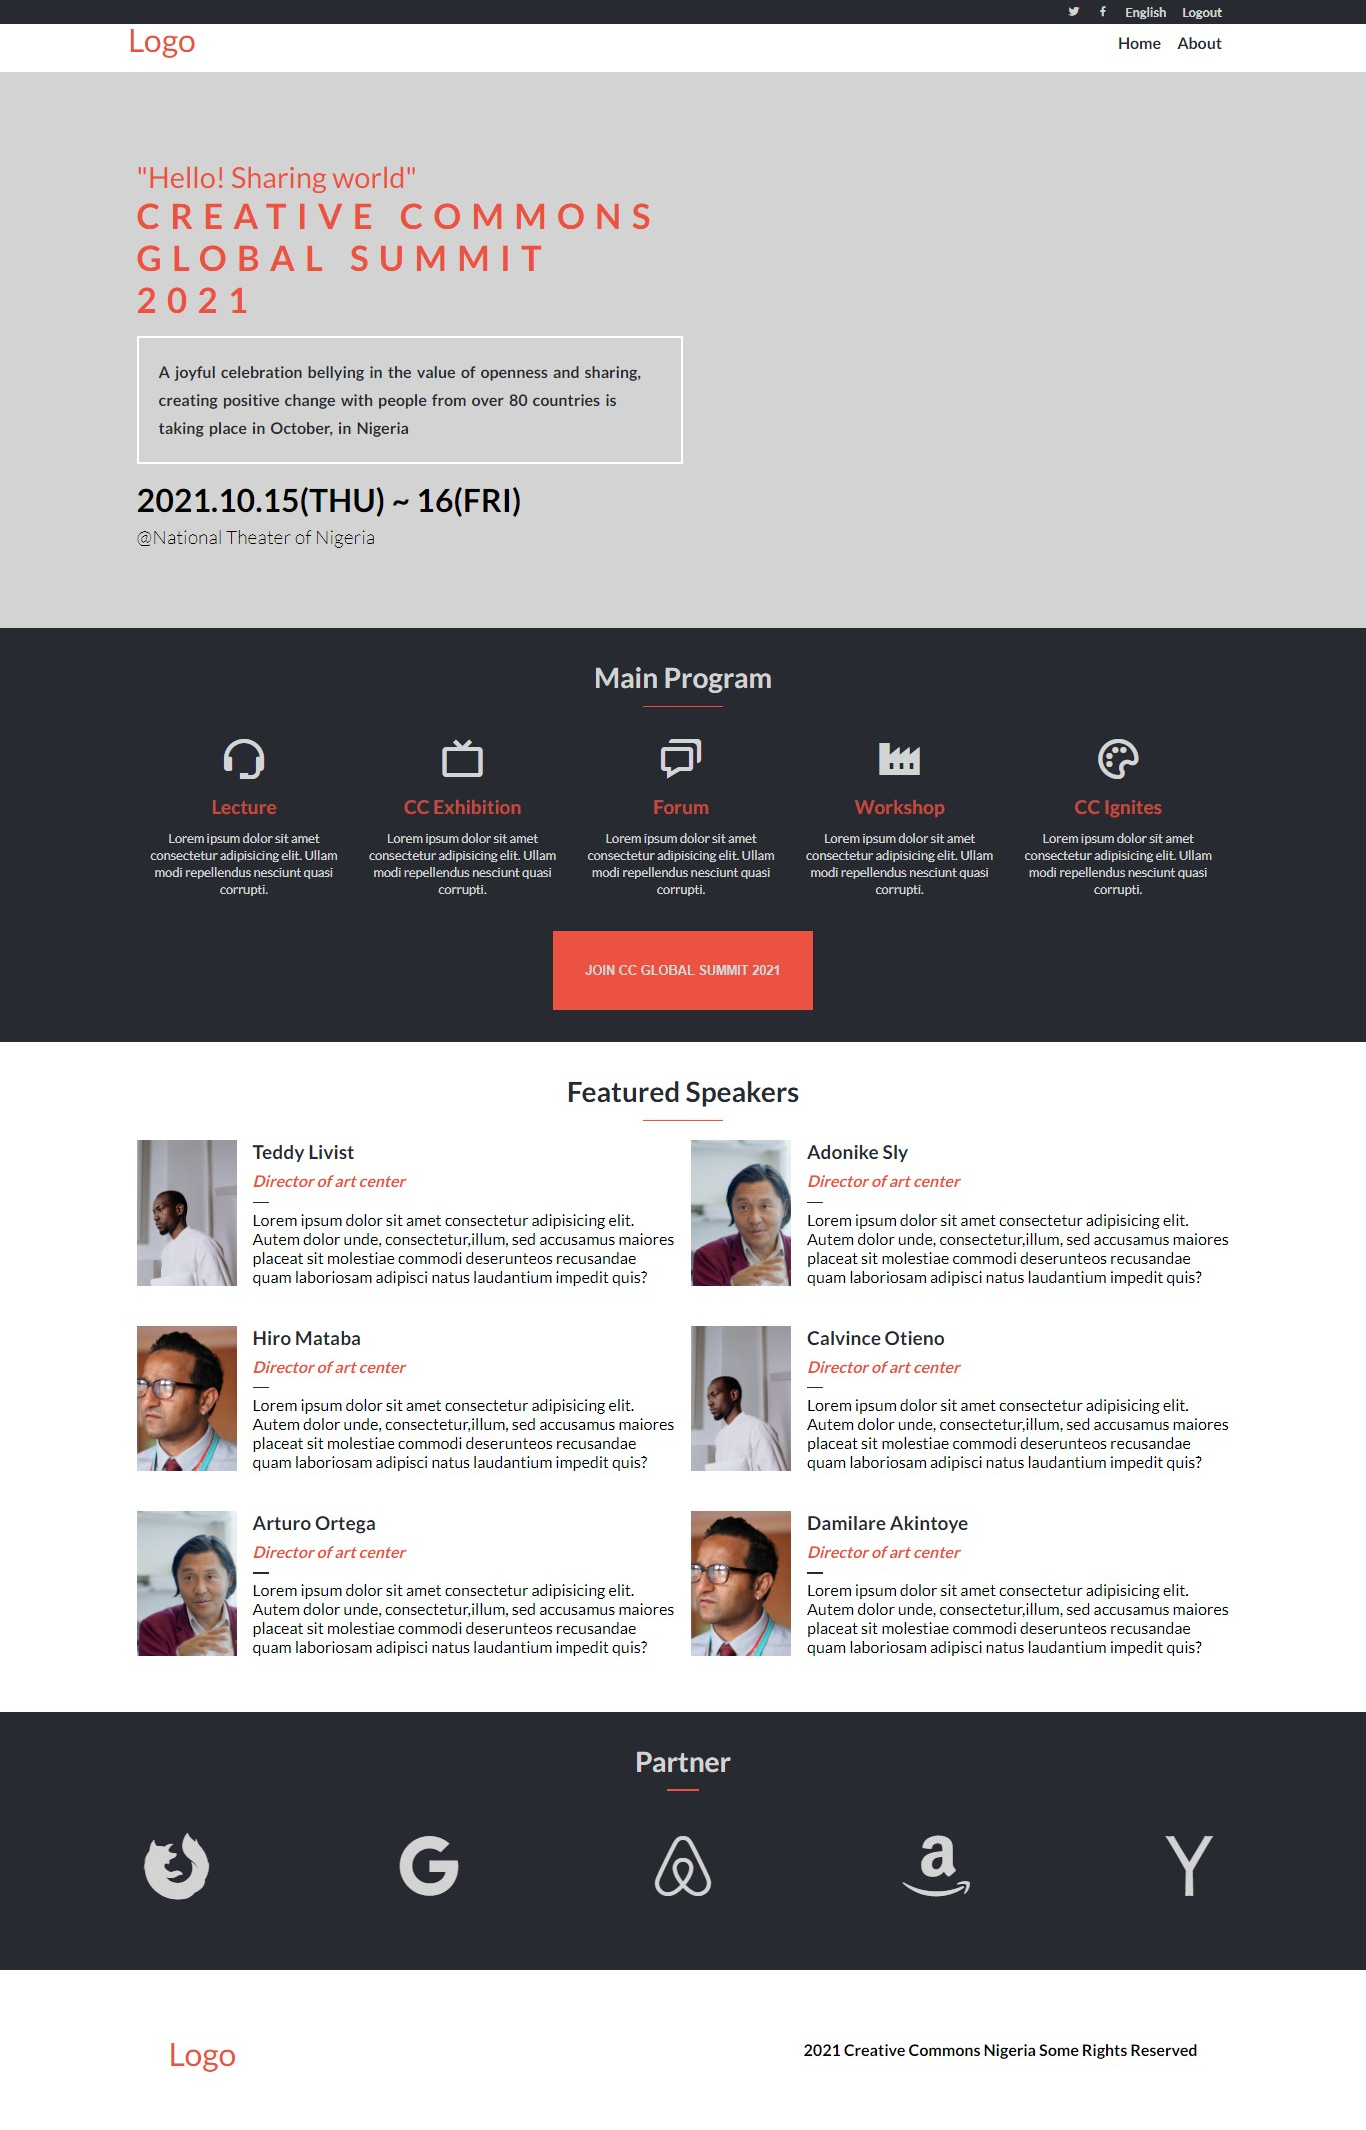
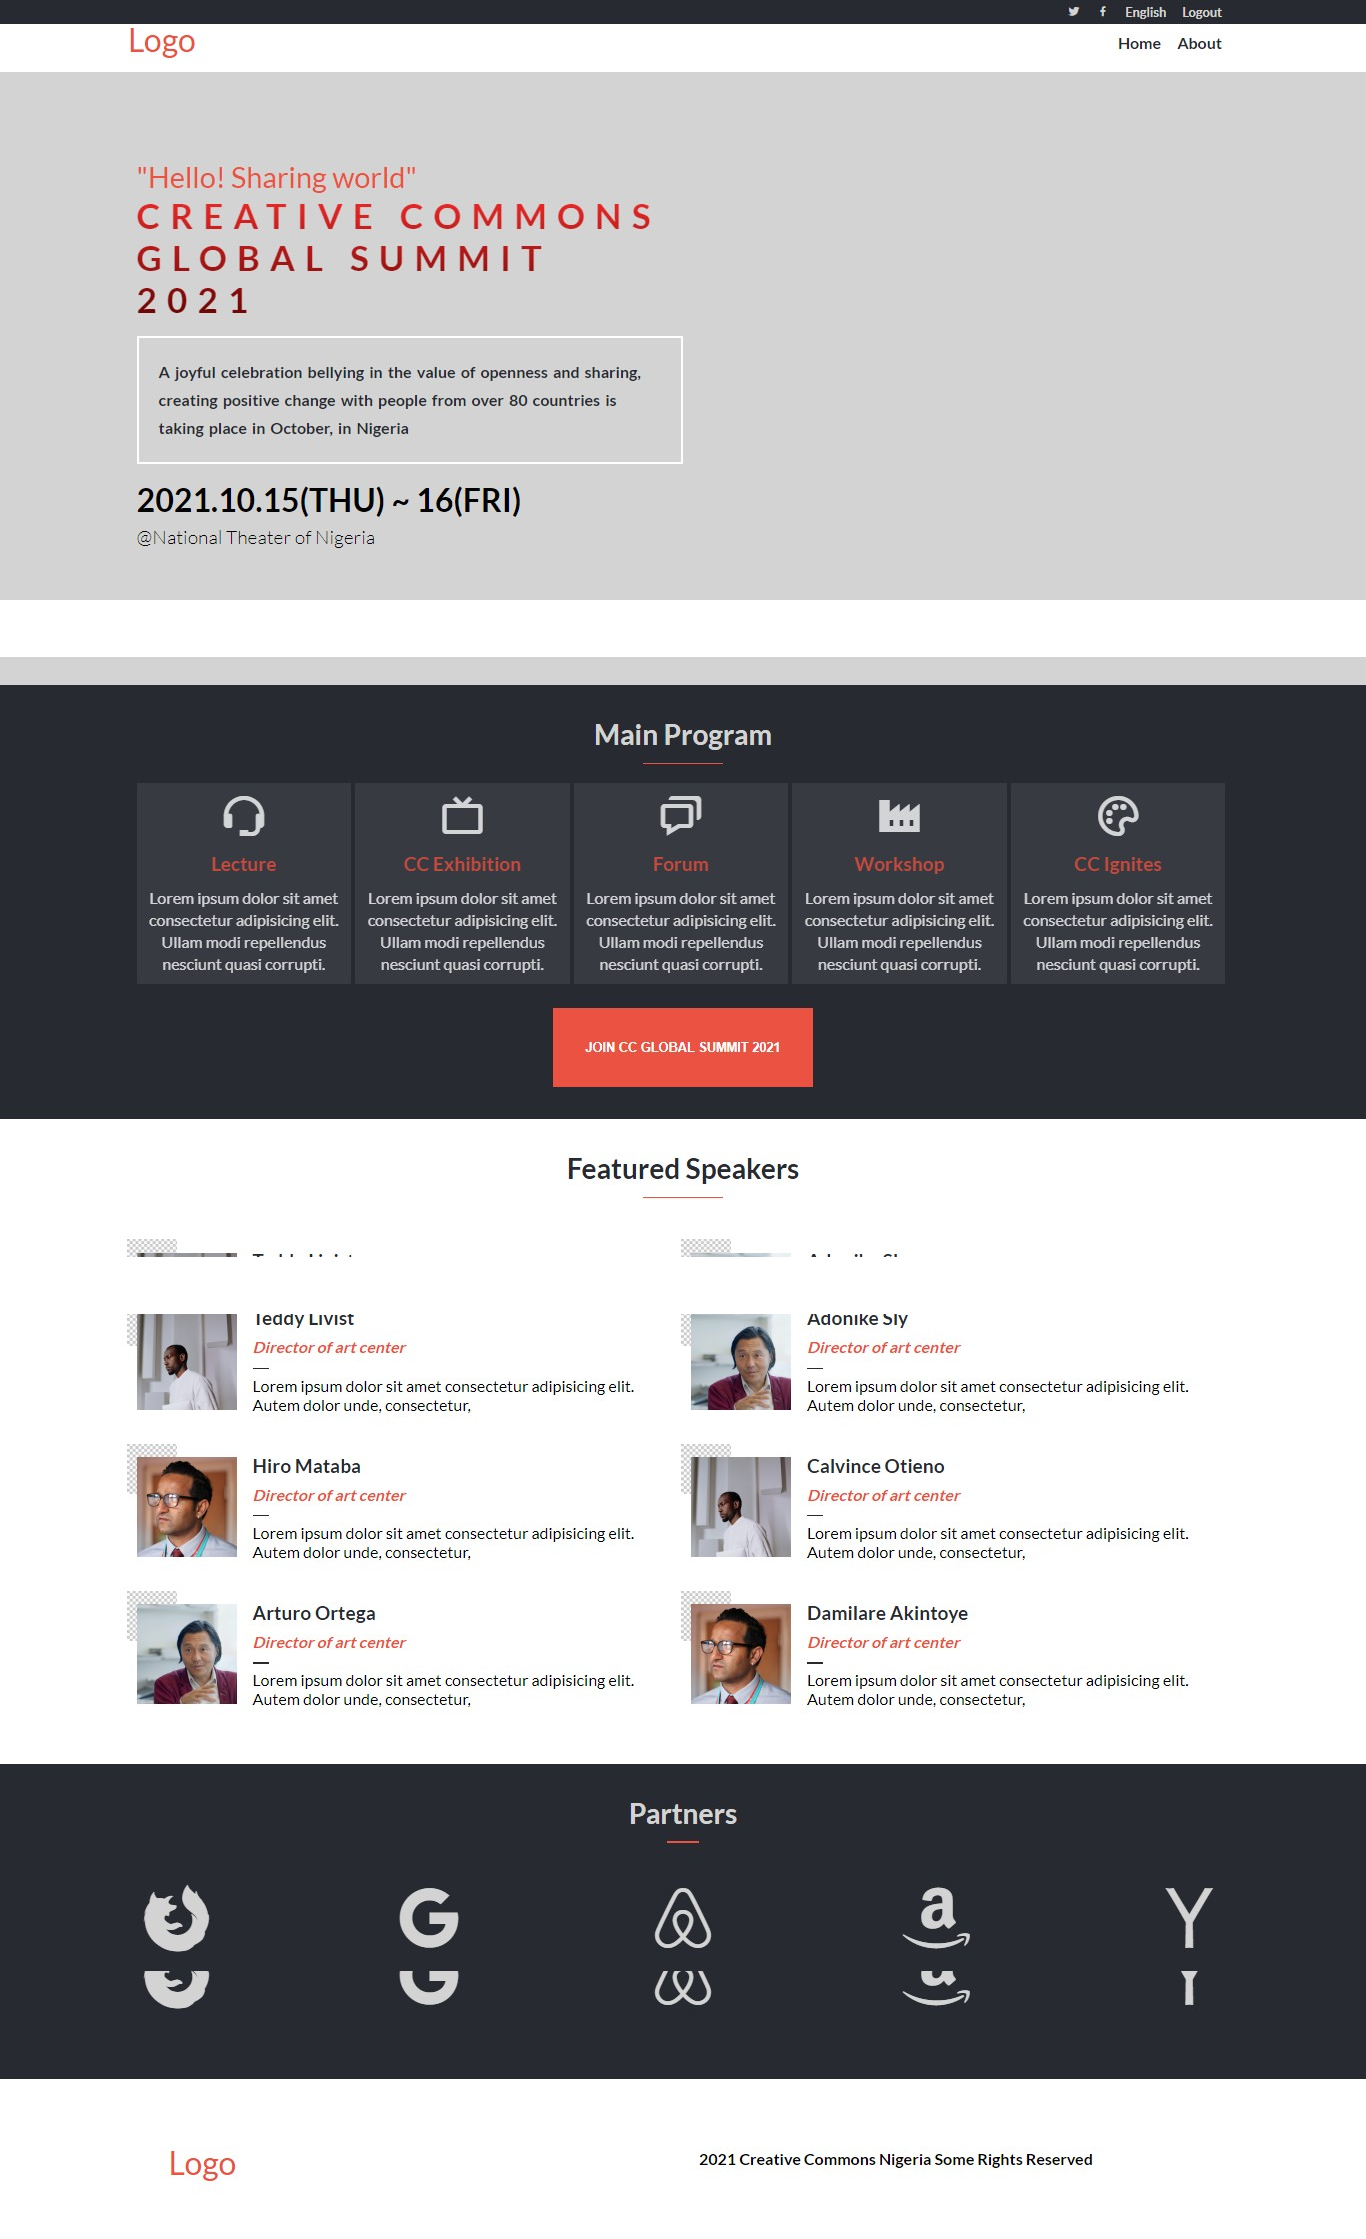
Update README.md file with recent project screenshot

diff --git a/about.html b/about.html
@@ -51,11 +51,11 @@
                     CREATIVE COMMONS GLOBAL SUMMIT 2021
                 </h1>
                 <p class="hero-about-content__desc bg-white">
-                   The Global Summit brings together community of
-                   experts, academics, and activists who comprise the Creative
-                   Commons affliate network in a different country
-                   every two. This year, we hope to expand our invitation list
-                   including organizations and individuals
+                    The Global Summit brings together community of
+                    experts, academics, and activists who comprise the Creative
+                    Commons affliate network in a different country
+                    every two. This year, we hope to expand our invitation list
+                    including organizations and individuals
                 </p>
 
                 <div class="hero-about-content-contact">
@@ -87,7 +87,7 @@
                             </div>
                             <div class="summits-list-item__details" >
                                 <h6>2019</h6>
-                                <p>CC Global Summits 2012 in Lagos</p>
+                                <p>CC Global Summits 2019 in Lagos</p>
                             </div>
                         </li>
                         <li class="summits-list-item">
@@ -96,7 +96,7 @@
                             </div>
                             <div class="summits-list-item__details" >
                                 <h6>2018</h6>
-                                <p>CC Global Summits 2019 in Ondo</p>
+                                <p>CC Global Summits 2018 in Ondo</p>
                             </div>
                         </li>
                     </ul>
@@ -106,7 +106,7 @@
         <section>
             <div class="container bg-dark">
                 <div class="partner">
-                    <h1 class="partner-heading">Partner</h1>
+                    <h1 class="partner-heading">Partners</h1>
                     <ul class="partners-list">
                         <li class="partner-list-item">
                             <i class='bx bxl-firefox' ></i>

diff --git a/style.css b/style.css
@@ -162,6 +162,8 @@ li {
 .hero-container {
   padding: 5rem 0;
   background: var(--third-color);
+  background-size: cover;
+  position: relative;
 }
 
 .hero-content,
@@ -243,6 +245,7 @@ li {
 .program-list-item {
   opacity: 0.8;
   margin-bottom: 2rem;
+  padding: 0.7rem 0;
   width: 100%;
   cursor: pointer;
   background-color: #3c3f46;
@@ -515,6 +518,7 @@ li {
   }
 
   .program-list-item {
+    margin-bottom: 2rem;
     padding: 0.5rem;
   }
 

diff --git a/index.html b/index.html
@@ -153,7 +153,7 @@
         <section>
             <div class="container bg-dark">
                 <div class="partner">
-                    <h1 class="partner-heading">Partner</h1>
+                    <h1 class="partner-heading">Partners</h1>
                     <ul class="partners-list">
                         <li class="partner-list-item">
                             <i class='bx bxl-firefox' ></i>

diff --git a/README.md b/README.md
@@ -18,6 +18,9 @@ Desktop Version Screenshot
 # Live Demo
 Visit this [link](https://olawale-o.github.io/capstone-conference/) for the demo
 
+# Loom Video
+Wtach this [video]()
+
 # Getting started
 
 ## To get a local copy of this repository kindly follow the steps below.
